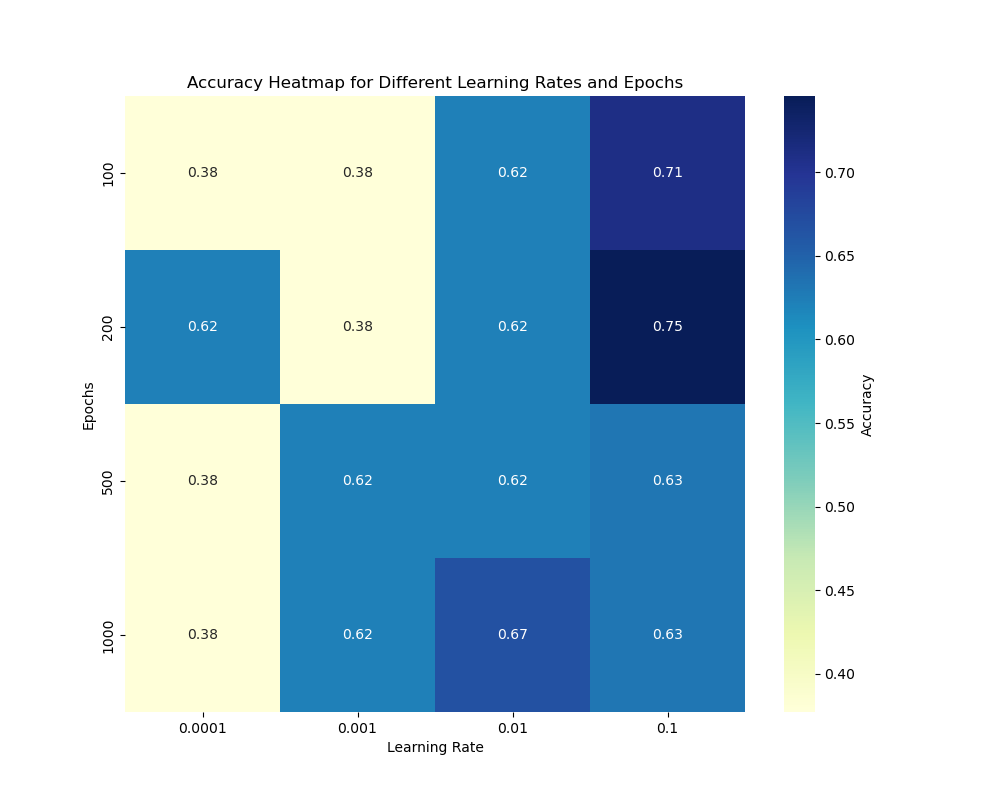
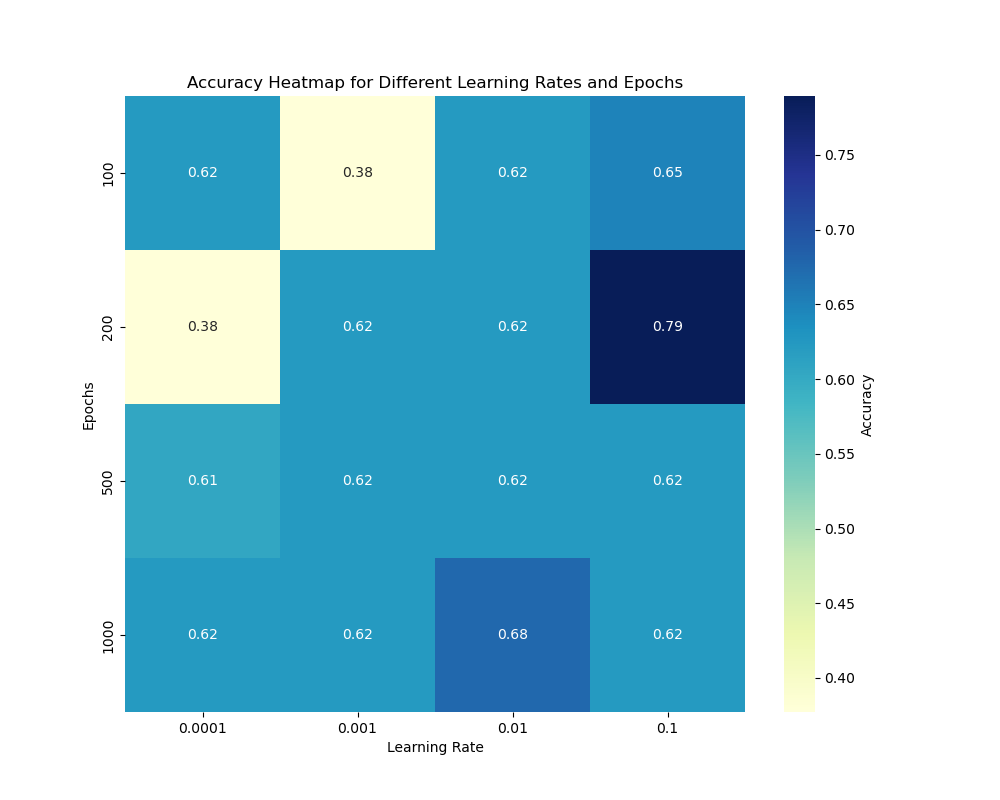
updated path for save_figures. added new plot.

diff --git a/partB_to_D/neural_network.py b/partB_to_D/neural_network.py
@@ -379,7 +379,7 @@ def eval_classification_ffnn():
     layer_sizes = [30, 32, 16, 1]
     learning_rates = [0.0001, 0.001, 0.01, 0.1]
 
-    epochs = [100, 200, 500]
+    epochs = [100, 200, 500, 1000]
 
     mini_batch_size = 10
     accuracy_matrix = np.zeros((len(epochs), len(learning_rates)))
@@ -396,6 +396,7 @@ def eval_classification_ffnn():
                 lr,
                 "sigmoid",
                 mini_batch_size,
+                0.1,
                 mode="classification",
             )
             nn.train_network()

diff --git a/partB_to_D/methods.py b/partB_to_D/methods.py
@@ -138,7 +138,7 @@ def franke_function(x, y):
 
 def save_plot(filename):
     current_dir = os.path.dirname(os.path.abspath(__file__))
-    output_dir = os.path.join(current_dir, "partB_to_D", "Figures")
+    output_dir = os.path.join(current_dir, "Figures")
     os.makedirs(output_dir, exist_ok=True)
 
     output_file_path = os.path.join(output_dir, f"{filename}.png")
